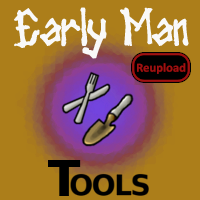
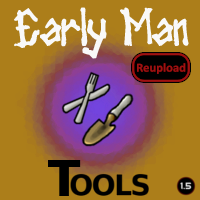
Mod updated for 1.5 and passed autotests

Changed region(s): [[0.87, 0.87, 0.99, 0.99]]

diff --git a/README.md b/README.md
@@ -25,11 +25,13 @@ https://steamcommunity.com/sharedfiles/filedetails/?id=1342138383
 
 -  See if the the error persists if you just have this mod and its requirements active.
 -  If not, try adding your other mods until it happens again.
--  Post your error-log using https://steamcommunity.com/workshop/filedetails/?id=818773962]HugsLib and command Ctrl+F12
+-  Post your error-log using https://steamcommunity.com/workshop/filedetails/?id=818773962]HugsLib or the standalone https://steamcommunity.com/sharedfiles/filedetails/?id=2873415404]Uploader and command Ctrl+F12
 -  For best support, please use the Discord-channel for error-reporting.
 -  Do not report errors by making a discussion-thread, I get no notification of that.
 -  If you have the solution for a problem, please post it to the GitHub repository.
+-  Use https://github.com/RimSort/RimSort/releases/latest]RimSort to sort your mods
 
 
 
+https://steamcommunity.com/sharedfiles/filedetails/changelog/2067169371]![Image](https://img.shields.io/github/v/release/emipa606/EMTools?label=latest%20version&style=plastic&color=9f1111&labelColor=black)
 
